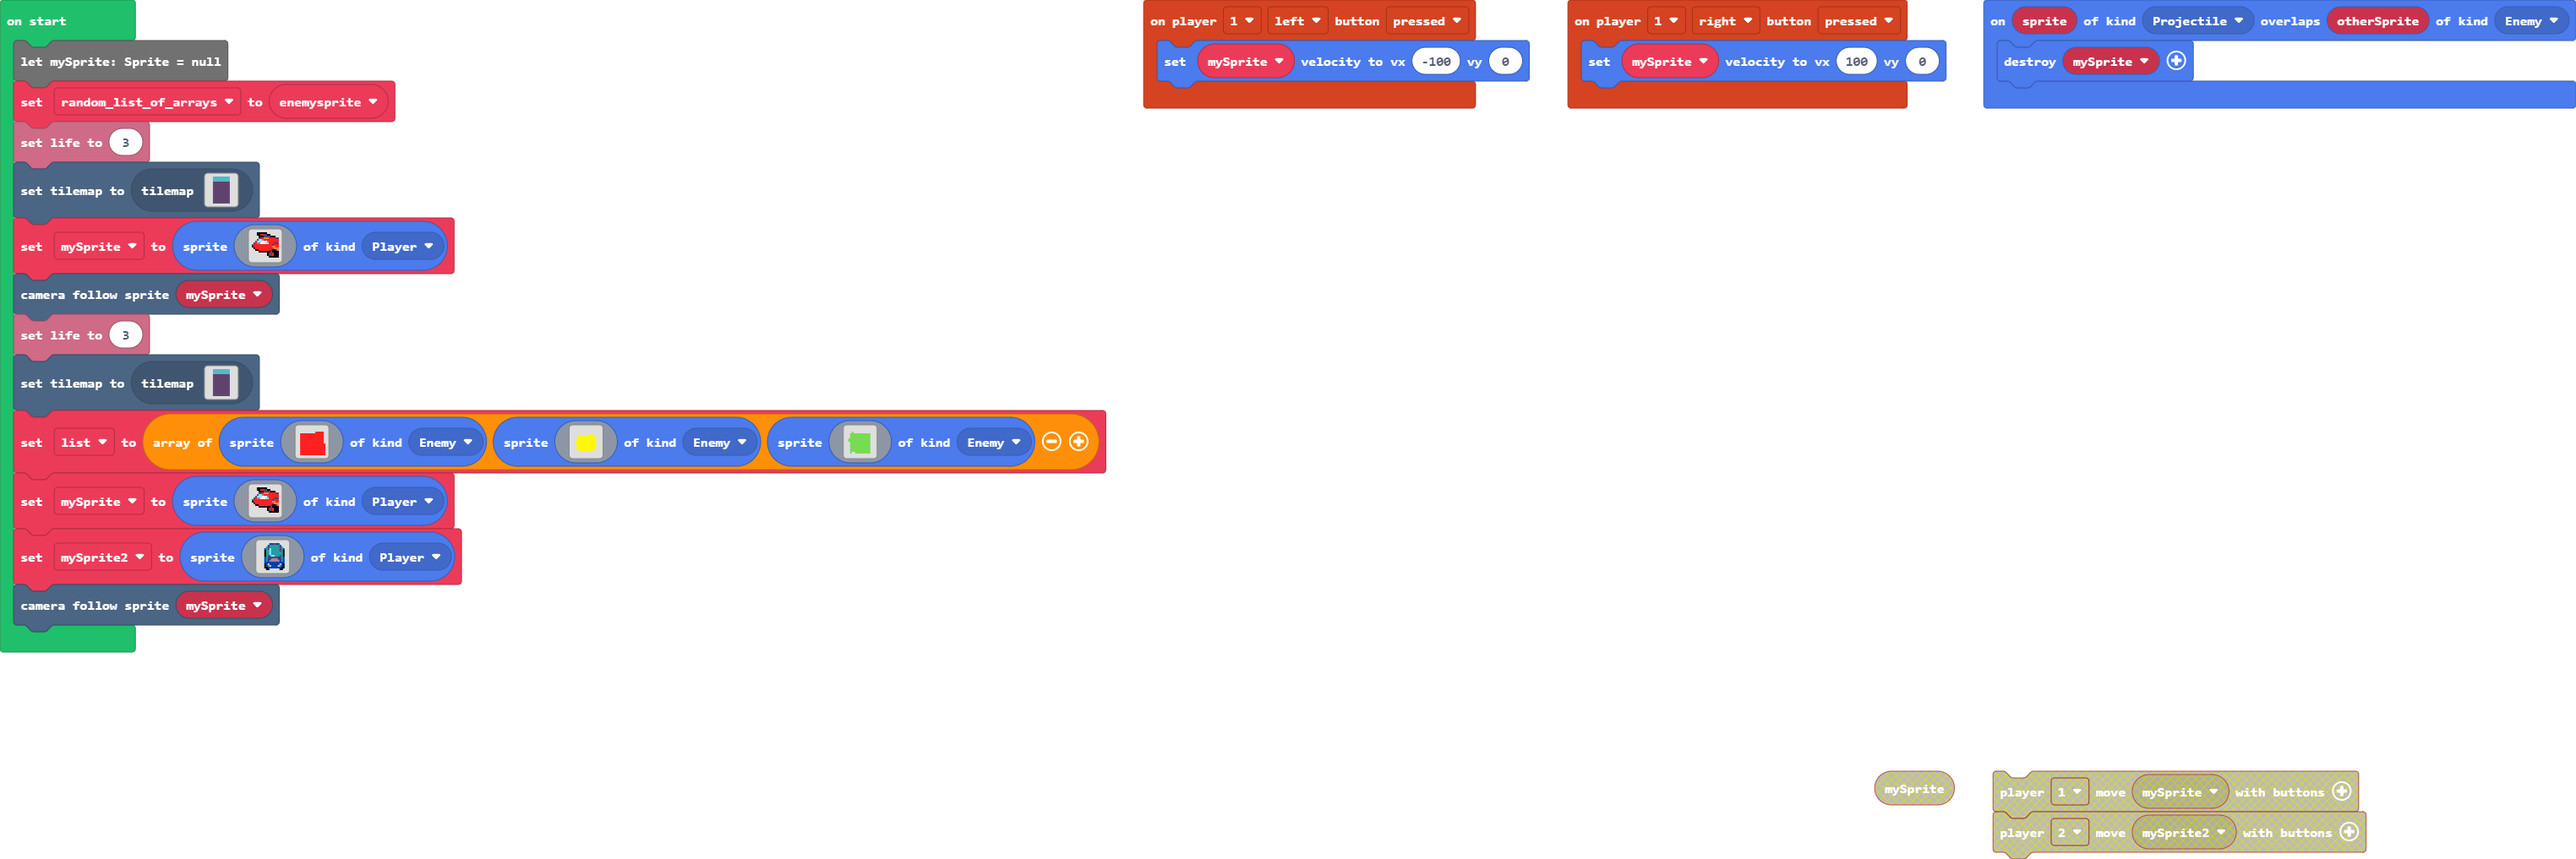
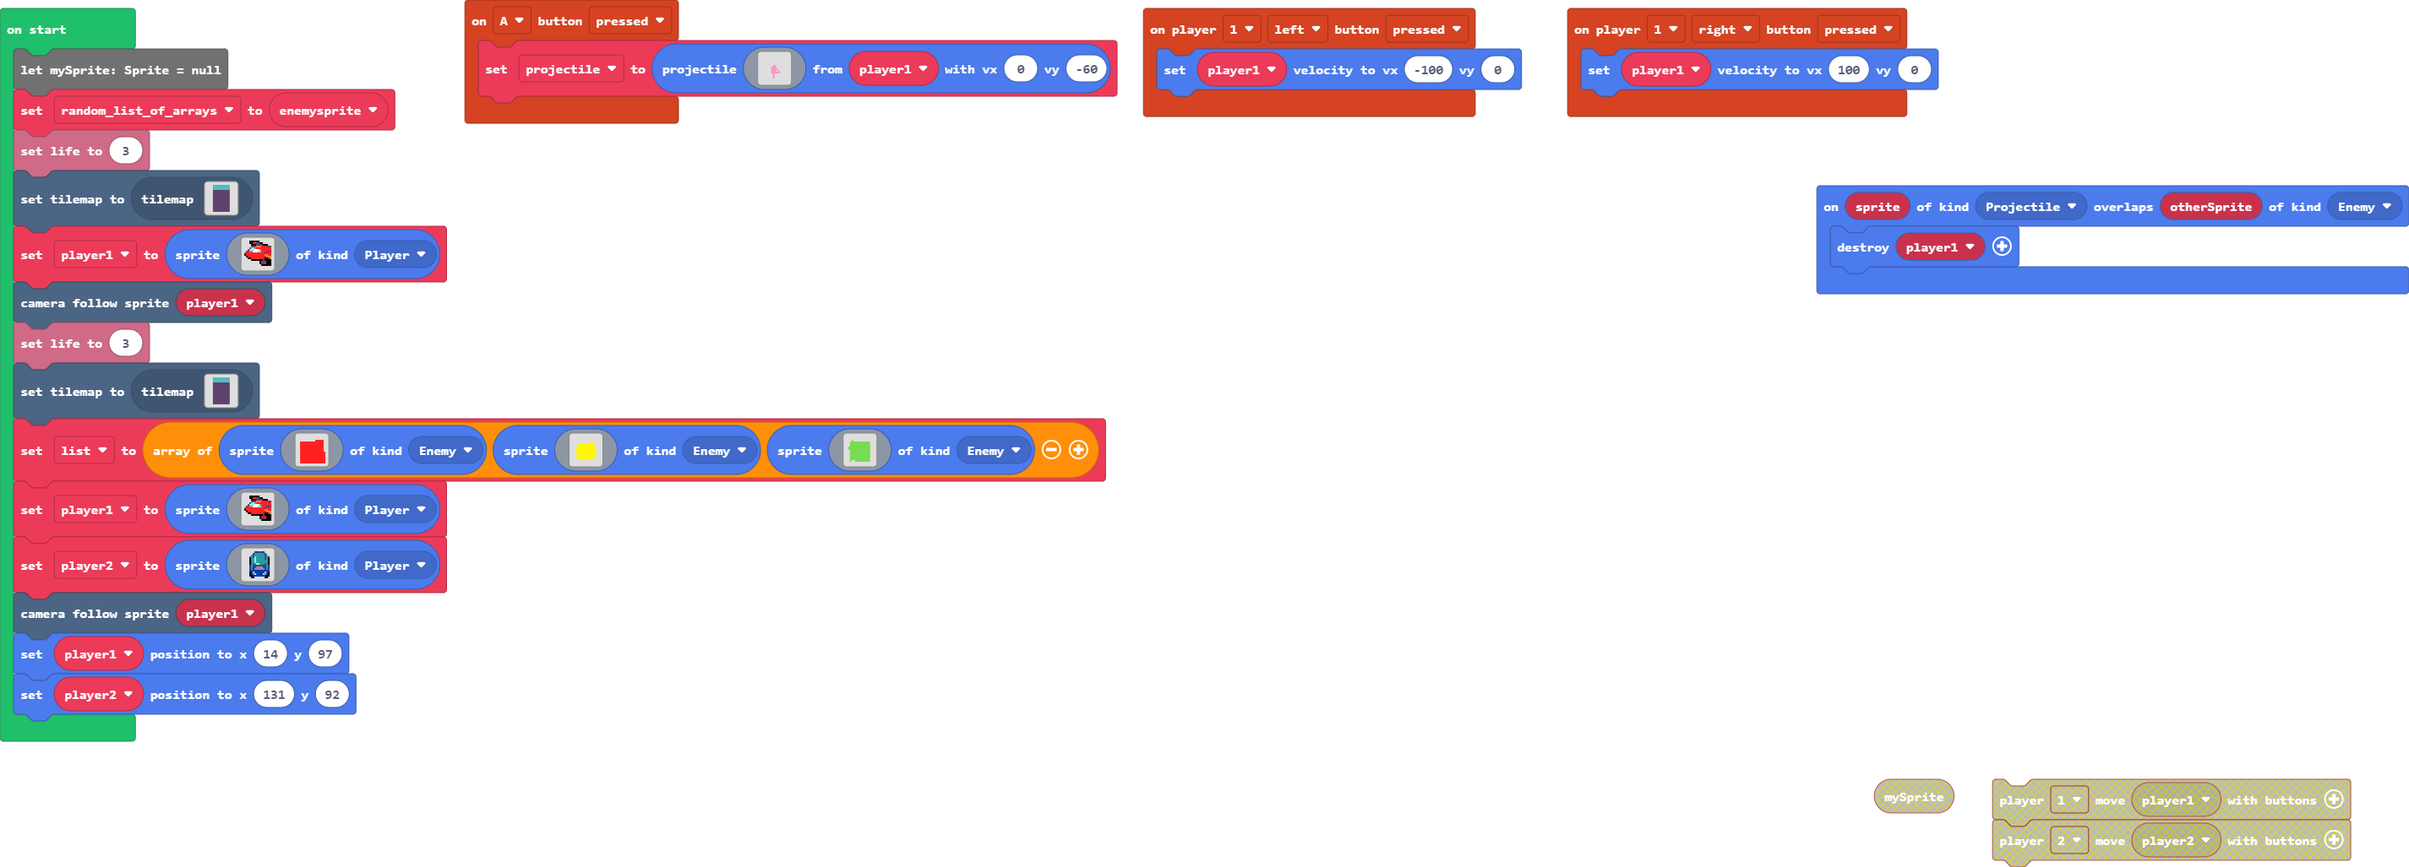
projectile

Changed region(s): [[0.0, 0.0, 1.0, 0.8535], [0.7492, 0.2134, 1.0, 0.3658], [0.718, 0.884, 0.9989, 1.0]]

diff --git a/tilemap.g.ts b/tilemap.g.ts
@@ -47,63 +47,6 @@ namespace myTiles {
 . . . . . . . . . . 
 . . . . . . . . . . 
 `, [myTiles.transparency16,sprites.dungeon.darkGroundWest,sprites.dungeon.darkGroundSouth,sprites.dungeon.darkGroundSouthWest0,sprites.dungeon.darkGroundCenter,sprites.dungeon.darkGroundEast,sprites.dungeon.darkGroundSouthEast0,sprites.dungeon.collectibleInsignia], TileScale.Sixteen);
-            case "level3":
-            case "level3":return tiles.createTilemap(hex`1000100000000000000000000000000000000000000000000000000000000000000000000000000000000000000000000000000000000000000000000000000000000000000000000000000000000000000000000000000000000000000000000000000000000000000000000000000000000000000000000000000000000000000000000000000000000000000000000000000000000000000000000000000000000000000000000000000000000000000000000000000000000000000000000000000000000000000000000000000000000000000000000000000000000000000000000000000000000000000000000000000000000000000000000000000000000000`, img`
-. . . . . . . . . . . . . . . . 
-. . . . . . . . . . . . . . . . 
-. . . . . . . . . . . . . . . . 
-. . . . . . . . . . . . . . . . 
-. . . . . . . . . . . . . . . . 
-. . . . . . . . . . . . . . . . 
-. . . . . . . . . . . . . . . . 
-. . . . . . . . . . . . . . . . 
-. . . . . . . . . . . . . . . . 
-. . . . . . . . . . . . . . . . 
-. . . . . . . . . . . . . . . . 
-. . . . . . . . . . . . . . . . 
-. . . . . . . . . . . . . . . . 
-. . . . . . . . . . . . . . . . 
-. . . . . . . . . . . . . . . . 
-. . . . . . . . . . . . . . . . 
-`, [myTiles.transparency16], TileScale.Sixteen);
-            case "level4":
-            case "level4":return tiles.createTilemap(hex`1000100000000000000000000000000000000000000000000000000000000000000000000000000000000000000000000000000000000000000000000000000000000000000000000000000000000000000000000000000000000000000000000000000000000000000000000000000000000000000000000000000000000000000000000000000000000000000000000000000000000000000000000000000000000000000000000000000000000000000000000000000000000000000000000000000000000000000000000000000000000000000000000000000000000000000000000000000000000000000000000000000000000000000000000000000000000000`, img`
-. . . . . . . . . . . . . . . . 
-. . . . . . . . . . . . . . . . 
-. . . . . . . . . . . . . . . . 
-. . . . . . . . . . . . . . . . 
-. . . . . . . . . . . . . . . . 
-. . . . . . . . . . . . . . . . 
-. . . . . . . . . . . . . . . . 
-. . . . . . . . . . . . . . . . 
-. . . . . . . . . . . . . . . . 
-. . . . . . . . . . . . . . . . 
-. . . . . . . . . . . . . . . . 
-. . . . . . . . . . . . . . . . 
-. . . . . . . . . . . . . . . . 
-. . . . . . . . . . . . . . . . 
-. . . . . . . . . . . . . . . . 
-. . . . . . . . . . . . . . . . 
-`, [myTiles.transparency16], TileScale.Sixteen);
-            case "level5":
-            case "level5":return tiles.createTilemap(hex`1000100000000000000000000000000000000000000000000000000000000000000000000000000000000000000000000000000000000000000000000000000000000000000000000000000000000000000000000000000000000000000000000000000000000000000000000000000000000000000000000000000000000000000000000000000000000000000000000000000000000000000000000000000000000000000000000000000000000000000000000000000000000000000000000000000000000000000000000000000000000000000000000000000000000000000000000000000000000000000000000000000000000000000000000000000000000000`, img`
-. . . . . . . . . . . . . . . . 
-. . . . . . . . . . . . . . . . 
-. . . . . . . . . . . . . . . . 
-. . . . . . . . . . . . . . . . 
-. . . . . . . . . . . . . . . . 
-. . . . . . . . . . . . . . . . 
-. . . . . . . . . . . . . . . . 
-. . . . . . . . . . . . . . . . 
-. . . . . . . . . . . . . . . . 
-. . . . . . . . . . . . . . . . 
-. . . . . . . . . . . . . . . . 
-. . . . . . . . . . . . . . . . 
-. . . . . . . . . . . . . . . . 
-. . . . . . . . . . . . . . . . 
-. . . . . . . . . . . . . . . . 
-. . . . . . . . . . . . . . . . 
-`, [myTiles.transparency16], TileScale.Sixteen);
         }
         return null;
     })

diff --git a/main.ts b/main.ts
@@ -1,18 +1,40 @@
+controller.A.onEvent(ControllerButtonEvent.Pressed, function () {
+    projectile = sprites.createProjectileFromSprite(img`
+        . . . . . . . . . . . . . . . . 
+        . . . . . . . . . . . . . . . . 
+        . . . . . . . . . . . . . . . . 
+        . . . . . . . . . . . . . . . . 
+        . . . . . . . . . . . . . . . . 
+        . . . . . . . . . . . . . . . . 
+        . . . . . . . 3 3 . . . . . . . 
+        . . . . . . 3 3 3 . . . . . . . 
+        . . . . . . 3 3 3 3 . . . . . . 
+        . . . . . . 3 3 3 . 3 . . . . . 
+        . . . . . . 3 3 3 3 3 . . . . . 
+        . . . . . . . 3 . . . . . . . . 
+        . . . . . . . 3 . . . . . . . . 
+        . . . . . . . 3 . . . . . . . . 
+        . . . . . . . . . . . . . . . . 
+        . . . . . . . . . . . . . . . . 
+        `, player1, 0, -60)
+})
 controller.player1.onButtonEvent(ControllerButton.Right, ControllerButtonEvent.Pressed, function () {
-    mySprite.setVelocity(100, 0)
+    player1.setVelocity(100, 0)
 })
 sprites.onOverlap(SpriteKind.Projectile, SpriteKind.Enemy, function (sprite, otherSprite) {
-    sprites.destroy(mySprite)
+    sprites.destroy(player1)
 })
 controller.player1.onButtonEvent(ControllerButton.Left, ControllerButtonEvent.Pressed, function () {
-    mySprite.setVelocity(-100, 0)
+    player1.setVelocity(-100, 0)
 })
+let projectile: Sprite = null
+let player1: Sprite = null
 let enemysprite = 0
 let mySprite: Sprite = null
 let random_list_of_arrays = enemysprite
 info.setLife(3)
 tiles.setCurrentTilemap(tilemap`level2`)
-mySprite = sprites.create(img`
+player1 = sprites.create(img`
     . . . f f f f f f . . . . . . . 
     . . . f f 2 2 c c f f . . . . . 
     . . . . f f f c c c c f f f . . 
@@ -30,7 +52,7 @@ mySprite = sprites.create(img`
     . . . . . . . . . . f f f f f f 
     . . . . . . . . . . . . . . . . 
     `, SpriteKind.Player)
-scene.cameraFollowSprite(mySprite)
+scene.cameraFollowSprite(player1)
 info.setLife(3)
 tiles.setCurrentTilemap(tilemap`level2`)
 let list = [sprites.create(img`
@@ -85,7 +107,7 @@ let list = [sprites.create(img`
     . . 7 . . 7 7 7 7 7 7 7 7 7 . . 
     . . . . . . . . . . . . . . . . 
     `, SpriteKind.Enemy)]
-mySprite = sprites.create(img`
+player1 = sprites.create(img`
     . . . f f f f f f . . . . . . . 
     . . . f f 2 2 c c f f . . . . . 
     . . . . f f f c c c c f f f . . 
@@ -103,7 +125,7 @@ mySprite = sprites.create(img`
     . . . . . . . . . . f f f f f f 
     . . . . . . . . . . . . . . . . 
     `, SpriteKind.Player)
-let mySprite2 = sprites.create(img`
+let player2 = sprites.create(img`
     . . . . . . 8 8 c c 8 8 . . . . 
     . . . . . 8 6 6 6 6 6 6 8 . . . 
     . . . . 6 c 6 6 6 6 6 6 c 6 . . 
@@ -121,4 +143,6 @@ let mySprite2 = sprites.create(img`
     . . . f f 8 8 8 8 8 8 8 8 f f . 
     . . . . f f . . . . . . f f . . 
     `, SpriteKind.Player)
-scene.cameraFollowSprite(mySprite)
+scene.cameraFollowSprite(player1)
+player1.setPosition(14, 97)
+player2.setPosition(131, 92)
